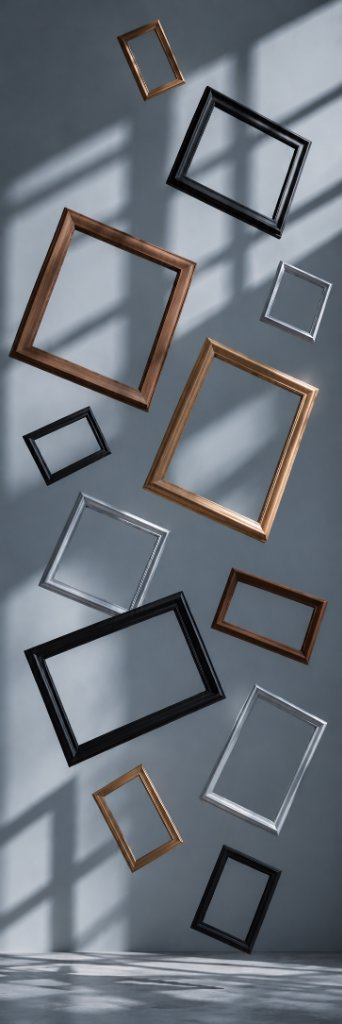
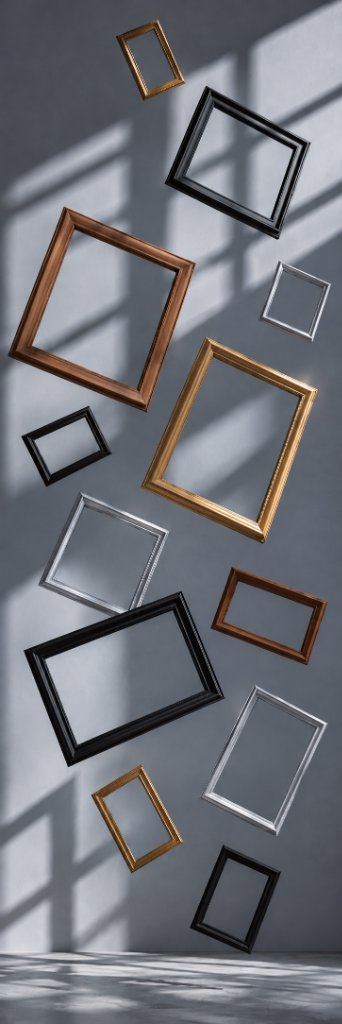
ui: update background image and apply frame background to cart drawer

diff --git a/src/components/cart/CartDrawer.tsx b/src/components/cart/CartDrawer.tsx
@@ -53,17 +53,17 @@ export const CartDrawer: React.FC = () => {
       />
 
       <div className="fixed top-0 bottom-[calc(4rem+env(safe-area-inset-bottom,0px))] right-0 max-w-full flex pl-0 sm:pl-10">
-        <div className="w-screen max-w-md shadow-2xl flex flex-col justify-between h-full relative overflow-hidden bg-neutral-950 text-neutral-100 border-l border-white/10">
-          {/* Background image with dark gradient */}
+        <div className="w-screen max-w-md shadow-2xl flex flex-col justify-between h-full relative overflow-hidden border-l border-white/10 text-white">
+          {/* Cart background image and dark gradient overlay */}
           <div
-            className="absolute inset-0 bg-cover bg-center bg-no-repeat pointer-events-none"
+            className="absolute inset-0 -z-10 bg-cover bg-center bg-no-repeat"
             style={{ backgroundImage: "url('/bg-frames.jpg')" }}
             aria-hidden="true"
           />
-          <div className="absolute inset-0 bg-gradient-to-b from-neutral-950/92 via-neutral-950/88 to-neutral-950/95 pointer-events-none" aria-hidden="true" />
+          <div className="absolute inset-0 -z-10 bg-neutral-950/85 backdrop-blur-md" aria-hidden="true" />
 
           {/* Header */}
-          <div className="relative z-10 px-5 py-4 sm:p-6 border-b border-white/10 flex items-center justify-between bg-black/40 backdrop-blur-md">
+          <div className="px-5 py-4 sm:p-6 border-b border-white/10 flex items-center justify-between bg-black/20">
             <div className="flex items-center gap-2">
               <ShoppingBag className="w-5 h-5 text-white" />
               <h2 className="text-base font-semibold tracking-wider uppercase text-white">
@@ -90,11 +90,11 @@ export const CartDrawer: React.FC = () => {
           </div>
 
           {/* Free Shipping Meter */}
-          <div className="relative z-10 bg-white/5 backdrop-blur-md px-6 py-3 border-b border-white/10">
+          <div className="bg-black/30 px-6 py-3 border-b border-white/10">
             <div className="text-[11px] text-neutral-300 font-medium mb-1.5 flex justify-between">
               {amountNeededForFreeShip > 0 ? (
                 <span>
-                  Add <strong className="text-white">{formatINR(amountNeededForFreeShip)}</strong> more for <strong className="text-white">Free Express Shipping</strong>!
+                  Add <strong className="text-white">{formatINR(amountNeededForFreeShip)}</strong> more for <strong>Free Express Shipping</strong>!
                 </span>
               ) : (
                 <span className="text-emerald-400 font-semibold flex items-center gap-1">
@@ -102,7 +102,7 @@ export const CartDrawer: React.FC = () => {
                 </span>
               )}
             </div>
-            <div className="w-full h-1.5 bg-white/20 rounded-full overflow-hidden">
+            <div className="w-full h-1.5 bg-neutral-800 rounded-full overflow-hidden">
               <div
                 className="h-full bg-white rounded-full transition-all duration-300"
                 style={{ width: `${freeShippingPercent}%` }}
@@ -111,7 +111,7 @@ export const CartDrawer: React.FC = () => {
           </div>
 
           {/* Item List */}
-          <div className="relative z-10 flex-1 overflow-y-auto p-6 space-y-6">
+          <div className="flex-1 overflow-y-auto p-6 space-y-6">
             {items.length === 0 ? (
               <div className="h-full flex flex-col items-center justify-center text-center py-12">
                 <ShoppingBag className="w-12 h-12 text-neutral-500 mb-3" />
@@ -125,7 +125,7 @@ export const CartDrawer: React.FC = () => {
                     setIsCartOpen(false)
                     navigate('/shop')
                   }}
-                  className="mt-6 px-6 py-2.5 rounded-full bg-white text-neutral-900 text-xs uppercase tracking-widest font-semibold hover:bg-neutral-200 transition-colors shadow-lg"
+                  className="mt-6 px-6 py-2.5 rounded-full bg-white text-neutral-900 text-xs uppercase tracking-widest font-semibold hover:bg-neutral-200 transition-colors"
                 >
                   Start Shopping
                 </button>
@@ -165,7 +165,7 @@ export const CartDrawer: React.FC = () => {
                     </div>
 
                     <div className="flex items-center justify-between mt-3">
-                      <div className="flex items-center border border-white/20 bg-black/30 rounded-sm">
+                      <div className="flex items-center border border-white/20 rounded-sm bg-black/20">
                         <button
                           type="button"
                           onClick={() => updateQuantity(item.id, item.quantity - 1)}
@@ -199,7 +199,7 @@ export const CartDrawer: React.FC = () => {
 
           {/* Footer & Checkout Area */}
           {items.length > 0 && (
-            <div className="relative z-10 p-4 sm:p-6 border-t border-white/10 bg-black/60 backdrop-blur-md space-y-4 pb-[calc(1.5rem+env(safe-area-inset-bottom,0px))]">
+            <div className="p-4 sm:p-6 border-t border-white/10 bg-black/40 space-y-4 pb-[calc(1.5rem+env(safe-area-inset-bottom,0px))]">
               {/* Coupon Engine */}
               <div>
                 {appliedCoupon ? (
@@ -211,7 +211,7 @@ export const CartDrawer: React.FC = () => {
                     <button
                       type="button"
                       onClick={removeCoupon}
-                      className="text-emerald-300 hover:text-emerald-100 font-semibold underline"
+                      className="text-emerald-400 hover:text-emerald-200 font-semibold underline"
                     >
                       Remove
                     </button>
@@ -223,7 +223,7 @@ export const CartDrawer: React.FC = () => {
                       value={couponCode}
                       onChange={(e) => setCouponCode(e.target.value)}
                       placeholder="Discount Code (WELCOME10)"
-                      className="flex-1 px-3 py-2 bg-neutral-900 border border-white/20 rounded-sm text-xs text-white placeholder:text-neutral-500 focus:outline-none focus:ring-1 focus:ring-white uppercase tracking-wider"
+                      className="flex-1 px-3 py-2 border border-white/20 bg-black/30 text-white placeholder:text-neutral-500 rounded-sm text-xs focus:outline-none focus:ring-1 focus:ring-white uppercase tracking-wider"
                     />
                     <button
                       type="submit"
@@ -269,7 +269,7 @@ export const CartDrawer: React.FC = () => {
                   setIsCartOpen(false)
                   navigate('/checkout')
                 }}
-                className="w-full py-3.5 bg-white hover:bg-neutral-200 text-neutral-900 text-xs uppercase tracking-widest font-semibold rounded-sm shadow-md transition-all flex items-center justify-center gap-2"
+                className="w-full py-3.5 bg-white hover:bg-neutral-200 text-neutral-950 text-xs uppercase tracking-widest font-semibold rounded-sm shadow-md transition-all flex items-center justify-center gap-2"
               >
                 <span>Proceed To Secure Checkout</span>
                 <ArrowRight className="w-4 h-4" />
